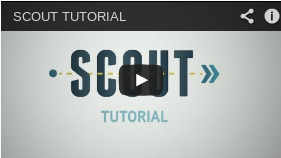
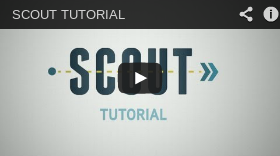
Homepage cleanup

diff --git a/public/assets/css/main.css b/public/assets/css/main.css
@@ -692,9 +692,10 @@ footer nav li{
 .row {
 	clear: both;
 }
-.modules .row {
-    background: url('/assets/images/through_arrow.png') center top no-repeat;
+.modules .row.functions {
+    background: url('/assets/images/through_arrow.png') center 9px no-repeat;
     padding-top: 17px;
+    margin-bottom: 40px;
 }
 .splashtext{
     padding: 80px 0 60px 0;
@@ -755,9 +756,11 @@ footer nav li{
 .home.modules li{
     margin-bottom: 10px;
 }
-
 .home.modules h3{
-    color: #000000;
+    color: #59585e;
+    margin-bottom: 20px;	
+}
+.home.modules .functions h3{
     color: #59585e;
     margin-bottom: 36px;
 }
@@ -767,7 +770,7 @@ footer nav li{
     -webkit-boxsizing: border-box;
     -moz-box-sizing: border-box;
     background: none;
-    margin-bottom: 40px;
+    margin-bottom: 80px;
 }
 .home.modules .module.video {
 	width: 34%;
@@ -778,10 +781,10 @@ footer nav li{
 }
 .home.modules .module.video img{
 	border: 6px solid #c5c7c7;
-	width: 100%;
     box-sizing: border-box;
     -webkit-boxsizing: border-box;
     -moz-box-sizing: border-box;
+    margin-top: 30px;
 }
 .home.modules .module.video img:hover{
 	opacity: .9;
